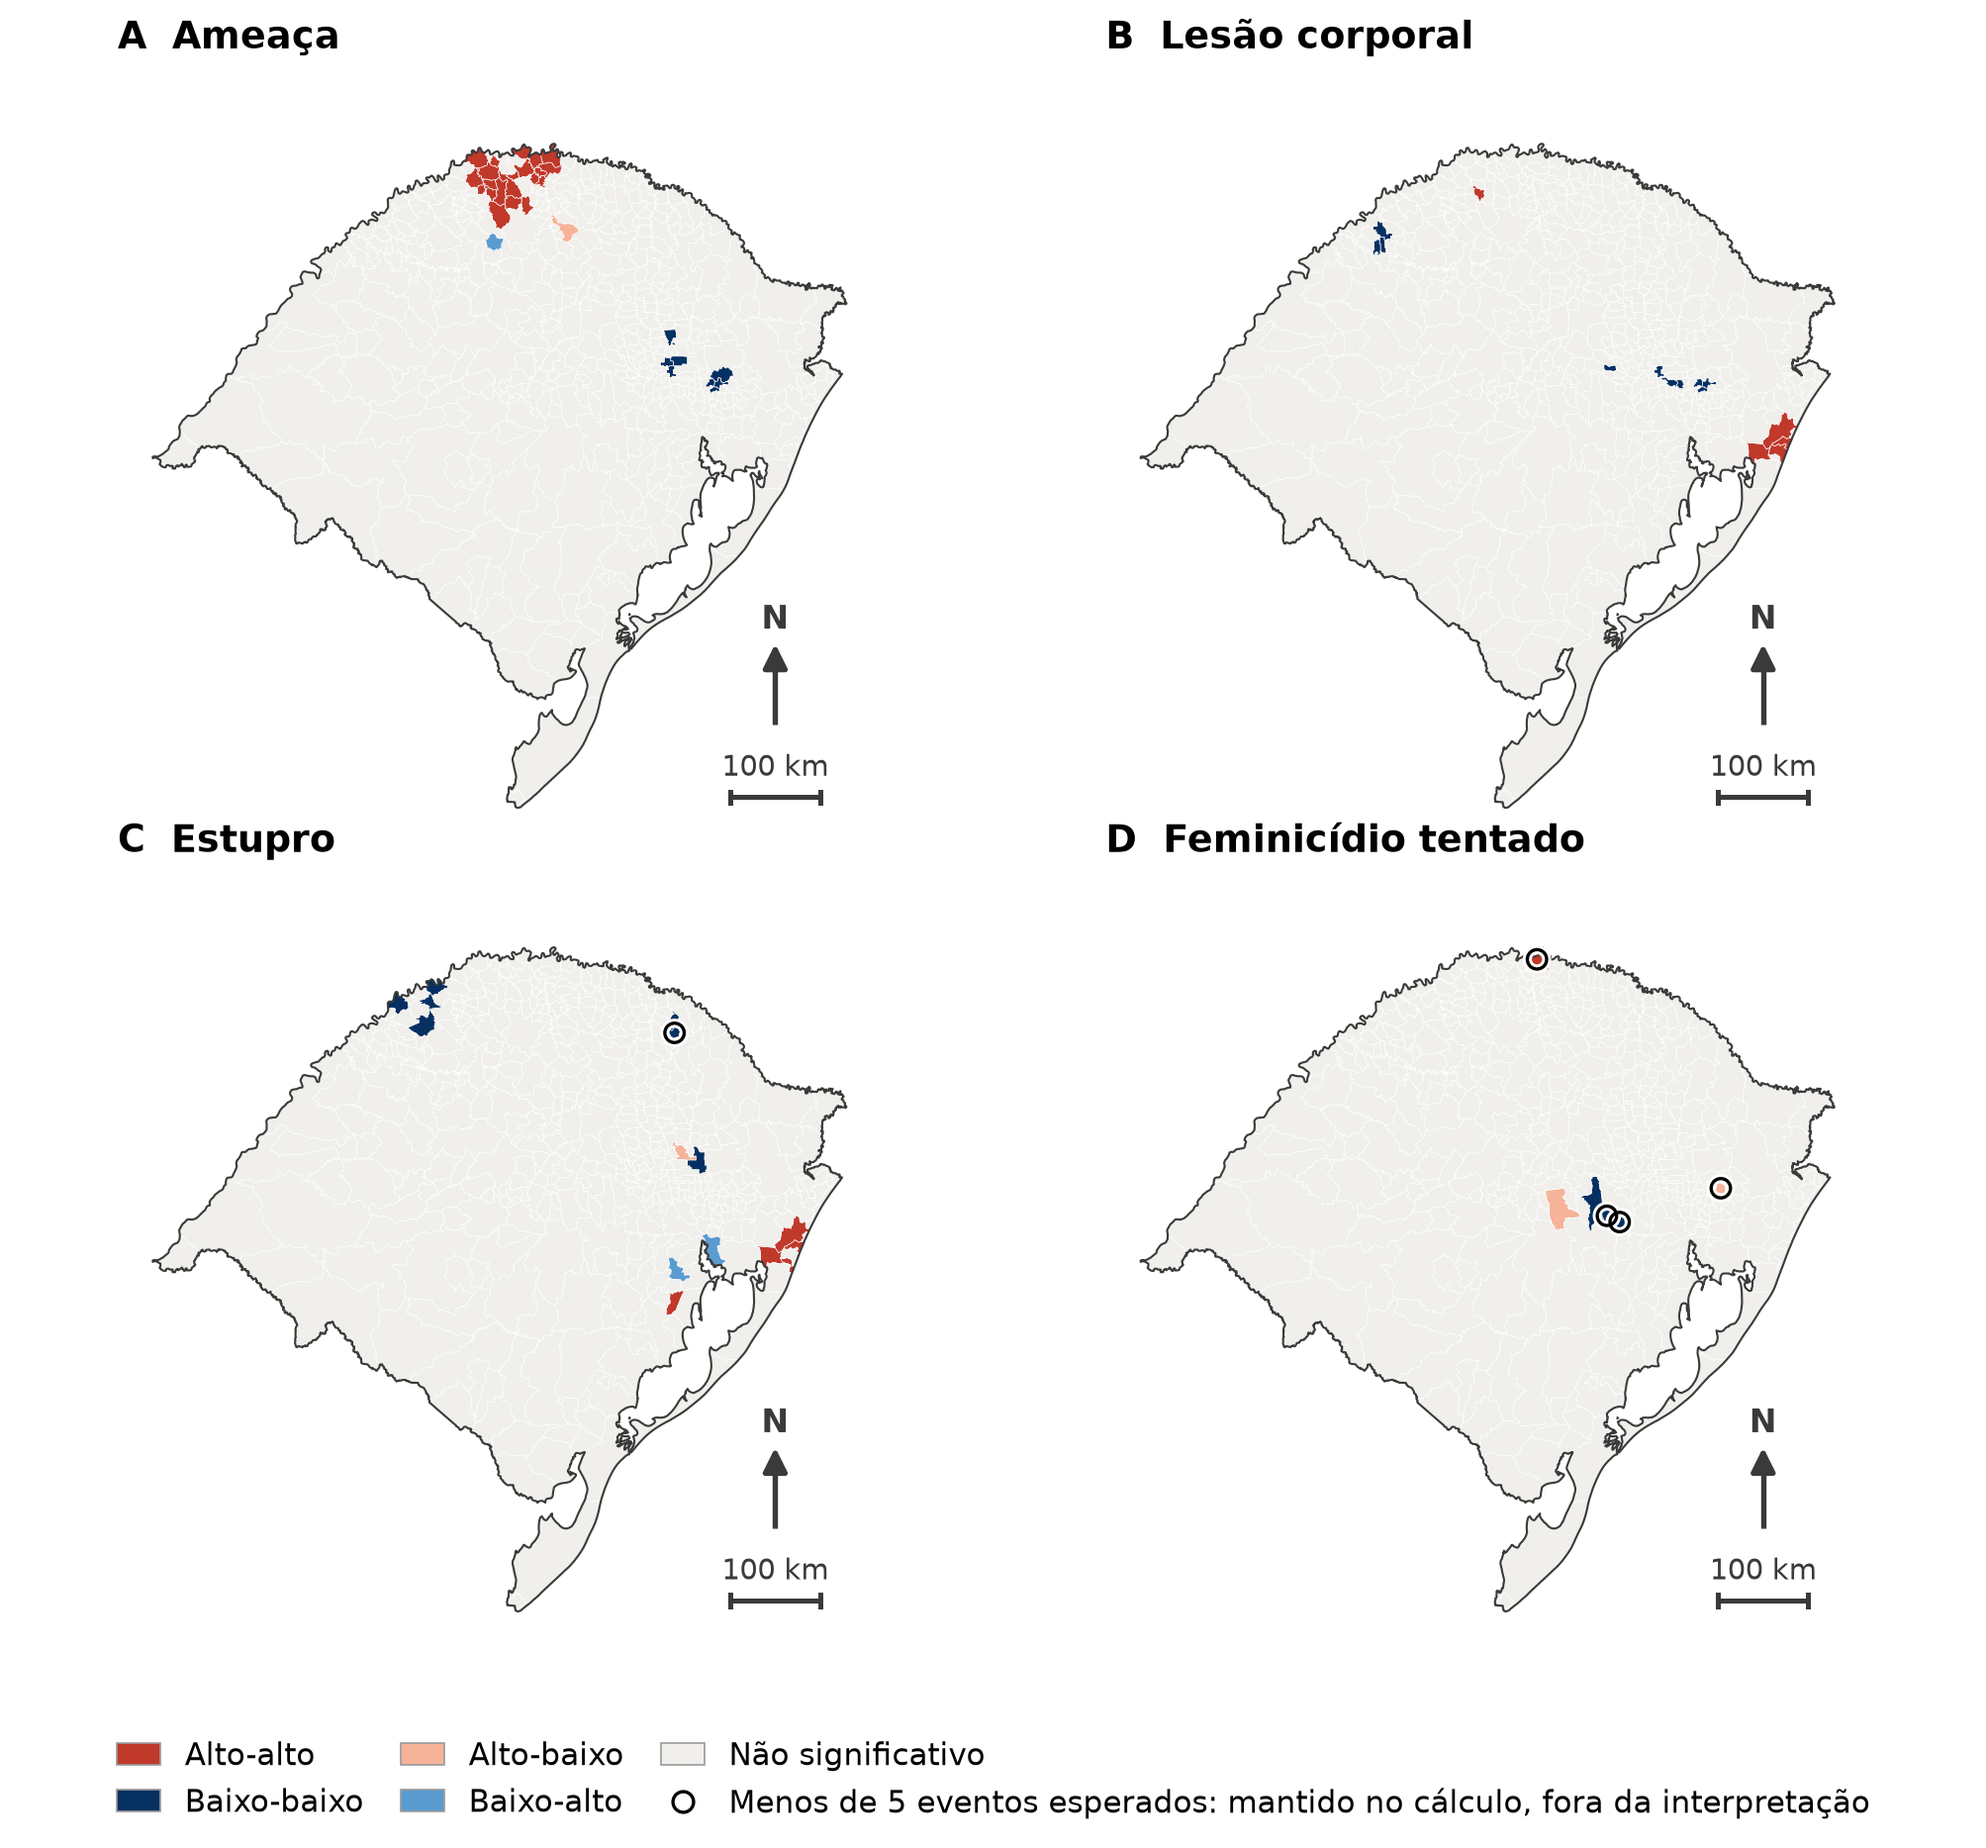
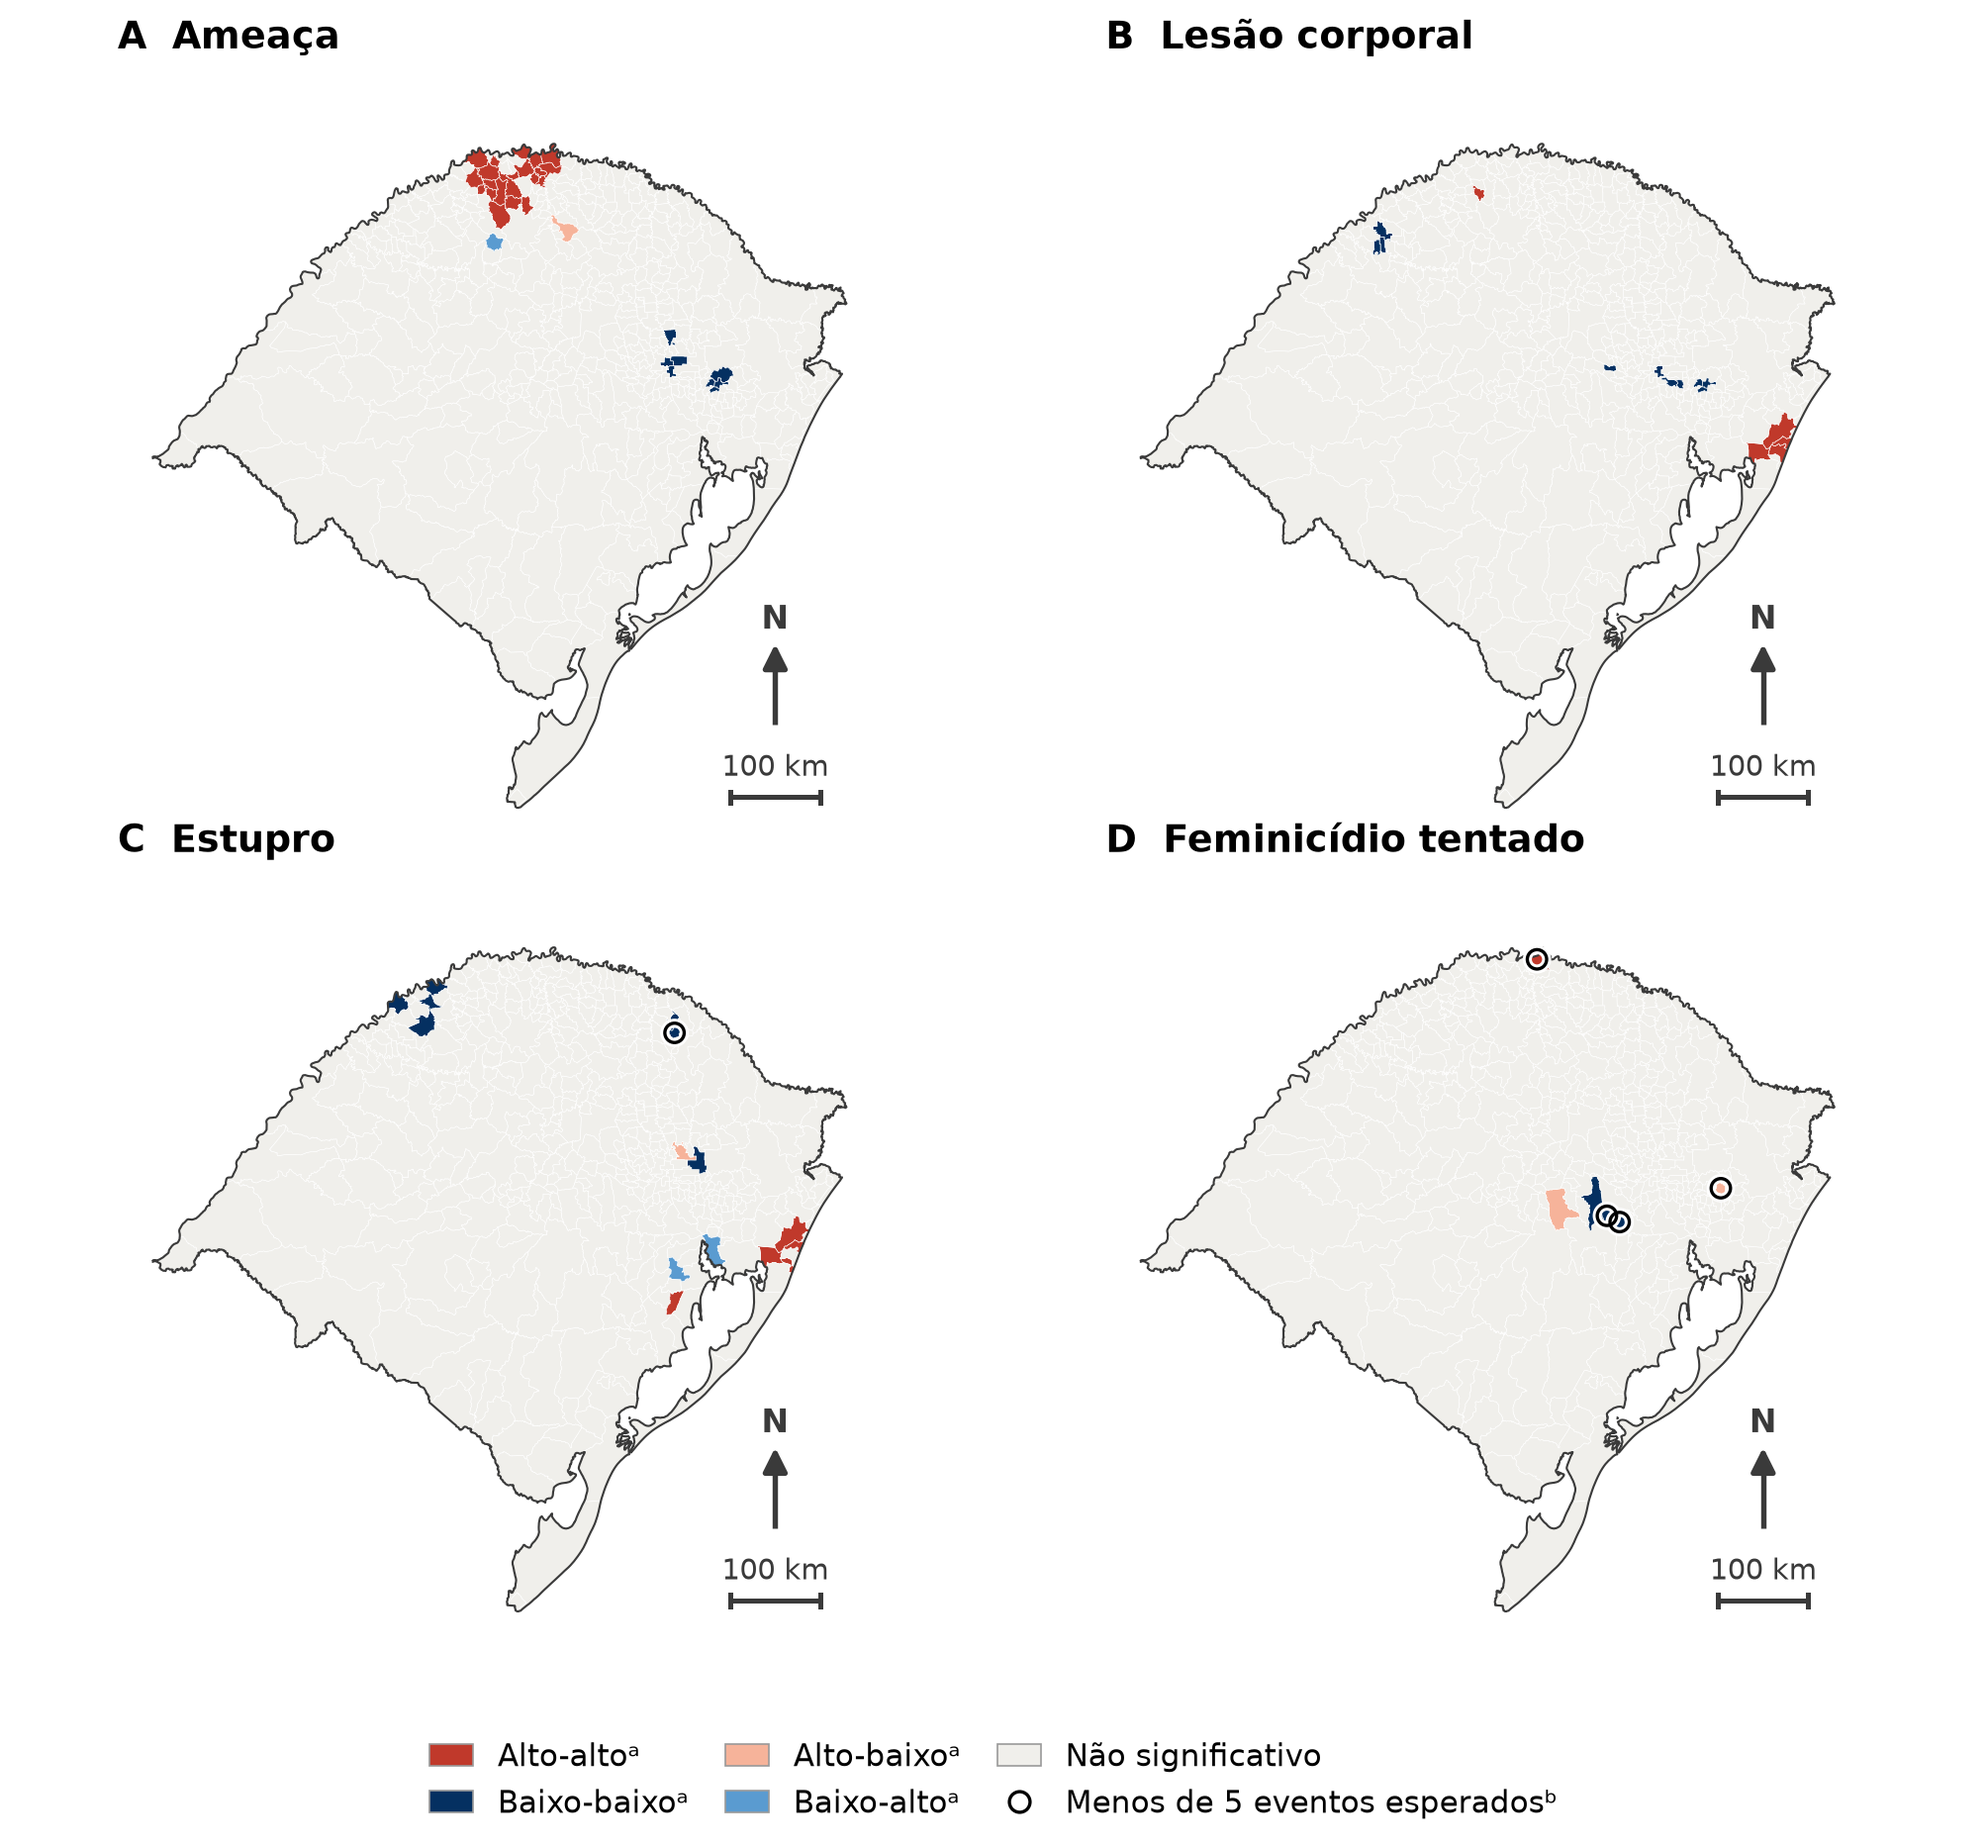
Regera a Figura 1 e sua legenda no padrão RESS

Changed region(s): [[0.0618, 0.932, 0.9268, 0.9941]]

diff --git a/publicacoes/artigo_espacial/03_figuras/figura1_legenda.md b/publicacoes/artigo_espacial/03_figuras/figura1_legenda.md
@@ -4,7 +4,7 @@
 
 **Figura 1.** Municípios com indicador local de associação espacial (LISA) significativo, por quadrante, na ameaça (A), na lesão corporal (B), no estupro (C) e no feminicídio tentado (D), Rio Grande do Sul, 2018-2025 (n = 497 municípios)
 
-Nota: taxas por 100 mil mulheres-ano, com o ajuste de Assunção e Reis. Significância por 99.999 permutações condicionais (semente 12345), com controle de Benjamini-Hochberg a 5% sobre o valor p direcional. Alto-alto e baixo-baixo: município com valor alto (baixo) cercado de vizinhos com valores altos (baixos); alto-baixo e baixo-alto: outliers espaciais. «Alto» e «baixo» referem-se à média dos municípios, e não à taxa estadual. O anel vazado marca os pares com menos de 5 eventos esperados sob a taxa estadual (A: 0, B: 0, C: 1, D: 4), mantidos no cálculo, mas sem interpretação substantiva. O feminicídio consumado não foi analisado no nível local, pela baixa ocorrência. Projeção policônica, SIRGAS 2000. Escala gráfica de 100 km em cada painel; na impressão com 17 cm de largura, a escala é de cerca de 1:13.000.000.
+ᵃ Alto-alto e baixo-baixo: município com valor alto (baixo) cercado de vizinhos com valores altos (baixos); alto-baixo e baixo-alto: outliers espaciais; «alto» e «baixo» referem-se à média dos municípios, e não à taxa estadual; ᵇ menos de 5 eventos esperados sob a taxa estadual: par mantido no cálculo, sem interpretação substantiva (C: 1; D: 4).
 
 ## Conferência da paleta
 
